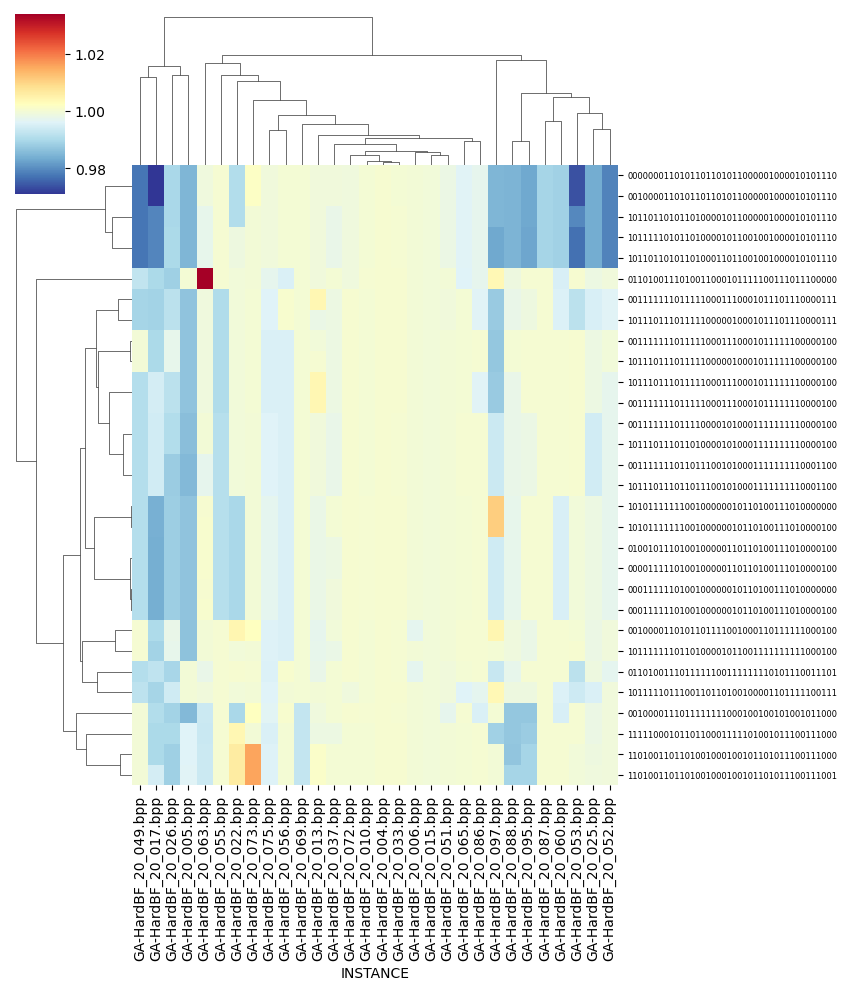
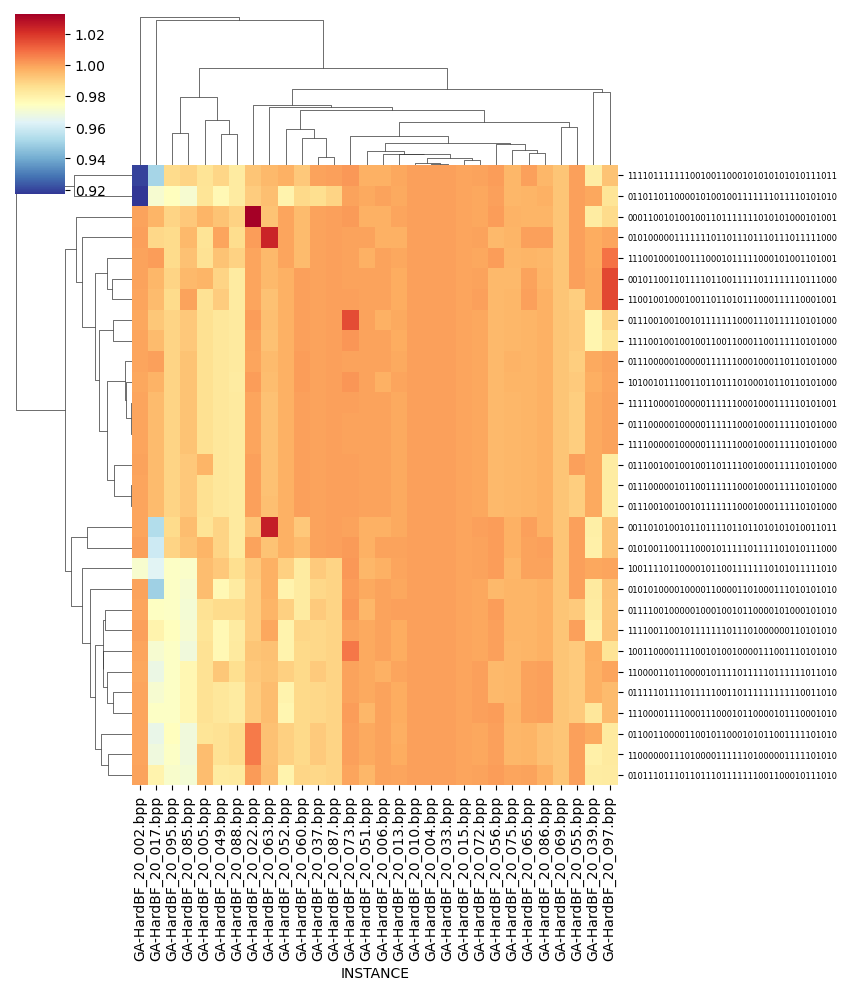
detallitos
graficas con 10000

diff --git a/hhprojectAll.py b/hhprojectAll.py
@@ -71,7 +71,7 @@ def solveHH(testGroup : str, hyperHeuristic : HyperHeuristic):
     # WARNING, TAKE EXTREME CAUTION IF YOU WANT TO USE THE REAL HEURISTIC SPACE, IF SO, COMMENT THE LINE BELOW AND MAY GOD HELP YOU... RIP  # 
     # !!!!!!!!!!!!!!!!!!!!!!!!!!!!!!!!!!!!!!!!!!!!!!!!!!!!!!!!!!!!!!!!!!!!!!!!!!!!!!!!!!!!!!!!!!!!!!!!!!!!!!!!!!!!!!!!!!!!!!!!!!!!!!!!!!!!! #
     # !!!!!!!!!!!!!!!!!!!!!!!!!!!!!!!!!!!!!!!!!!!!!!!!!!!!!!!!!!!!!!!!!!!!!!!!!!!!!!!!!!!!!!!!!!!!!!!!!!!!!!!!!!!!!!!!!!!!!!!!!!!!!!!!!!!!! #
-    heuristicSpaceToExplore = 10000
+    heuristicSpaceToExplore = 20
 
     prueba = hyperHeuristic.solveAll(testGroup, heuristicSpaceToExplore)
     return prueba
@@ -127,6 +127,9 @@ def dendogram_analysis(allScores_allSequences : dict, dict1 : dict, testGroup : 
     matrix_allScores_allSequences = np.vstack(list(allScores_allSequences.values()))
     df_allScores_allSequences = pd.DataFrame(matrix_allScores_allSequences, index=allScores_allSequences.keys(), columns=column_values)
     df_allScores_allSequences.transpose()
+
+    # Rename from sequences to heuristics 01010101 -> "bfit", "bfit"
+    #df_allScores_allSequences.rename(index=lambda x: fromGenToSeq(x, heuristics), inplace=True)
 
     # add the avg score for each sequence to the dataframe in order to sort it
     avg_norm = np.vstack(list(dict1.values()))
